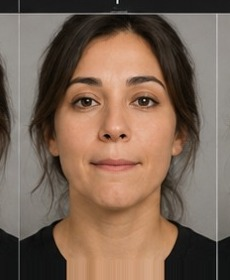
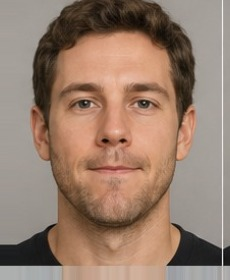
v108: replace viseme photo set with new higher-quality reference sheet (male model) - same face-detection-alignment pipeline as v107, applied to the new 7x3-grid sheet; this source only had one REST shot so rest_1/rest_2 are identical duplicates, documented in visemeImages.ts

diff --git a/src/assets/visemeImages.ts b/src/assets/visemeImages.ts
@@ -1,9 +1,14 @@
-// Cropped from a single 22-photo reference sheet (same model, same
-// lighting/pose throughout — see src/assets/visemes/README.md) so
-// swapping between them at runtime never causes a lighting/head-angle
-// jump, only the mouth region visibly changes. Each viseme has two
-// photo variants (1/2) except neutral/laughing; VisemeAvatar.tsx
-// alternates between them for a touch of natural variation at no cost.
+// Cropped and face-aligned from a single reference photo sheet (same
+// model, same lighting/pose throughout, faces re-centered via Haar
+// cascade face detection — see the asset-generation notes in git
+// history) so swapping between them at runtime never causes a
+// lighting/head-angle jump, only the mouth region visibly changes.
+// Each viseme has two photo variants (1/2) except neutral/laughing;
+// this model's source sheet only had one REST shot, so rest_1/rest_2
+// are identical duplicates rather than two distinct photos — kept as
+// two files anyway so the rest of the code doesn't need a special
+// case. VisemeAvatar.tsx alternates between variants for a touch of
+// natural variation at no cost.
 
 import neutral from "./visemes/neutral.jpg";
 import laughing from "./visemes/laughing.jpg";

diff --git a/README.md b/README.md
@@ -1,6 +1,6 @@
 # Language Trainer
 
-Version: 107 — 2026-09-04
+Version: 108 — 2026-09-05
 
 React-based long-form language tutor simulation (45-90 min sessions).
 Static content, multiple trainer personas, block-based session engine
